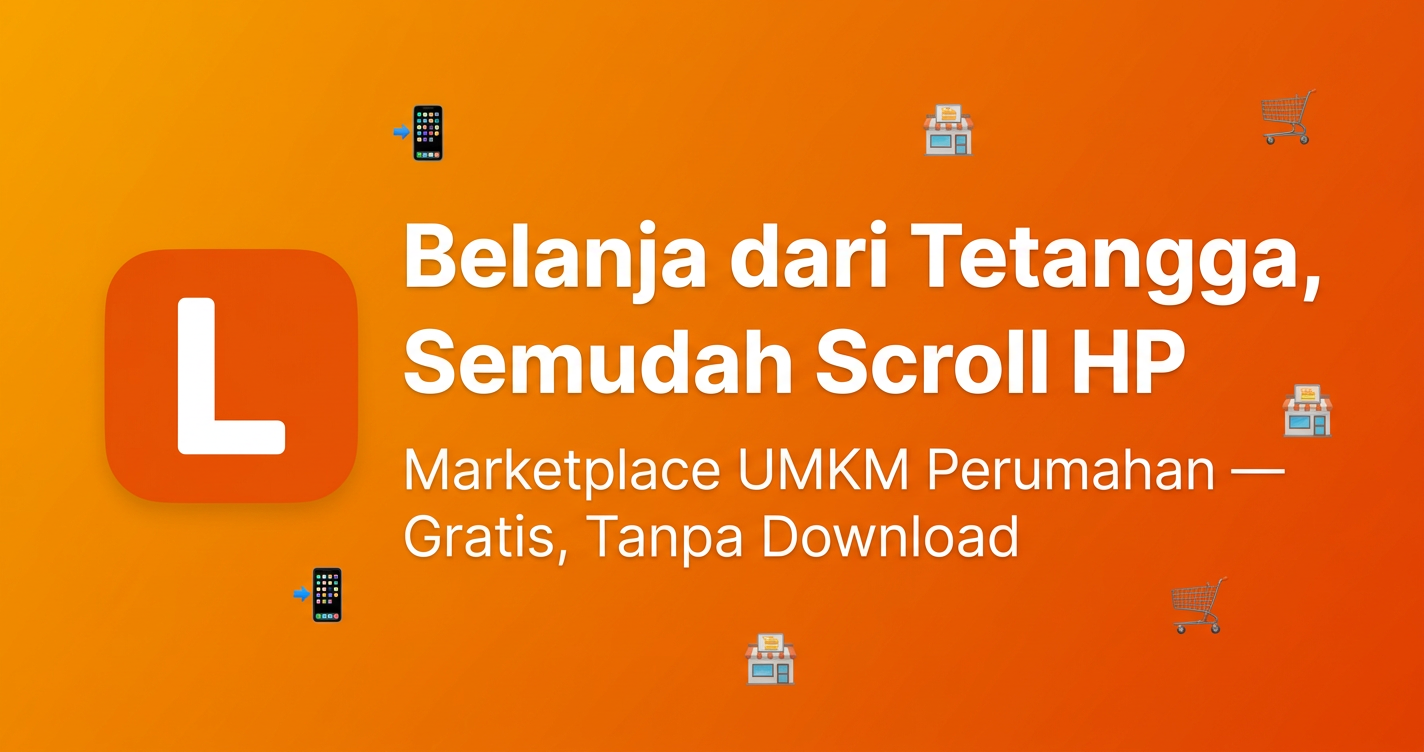
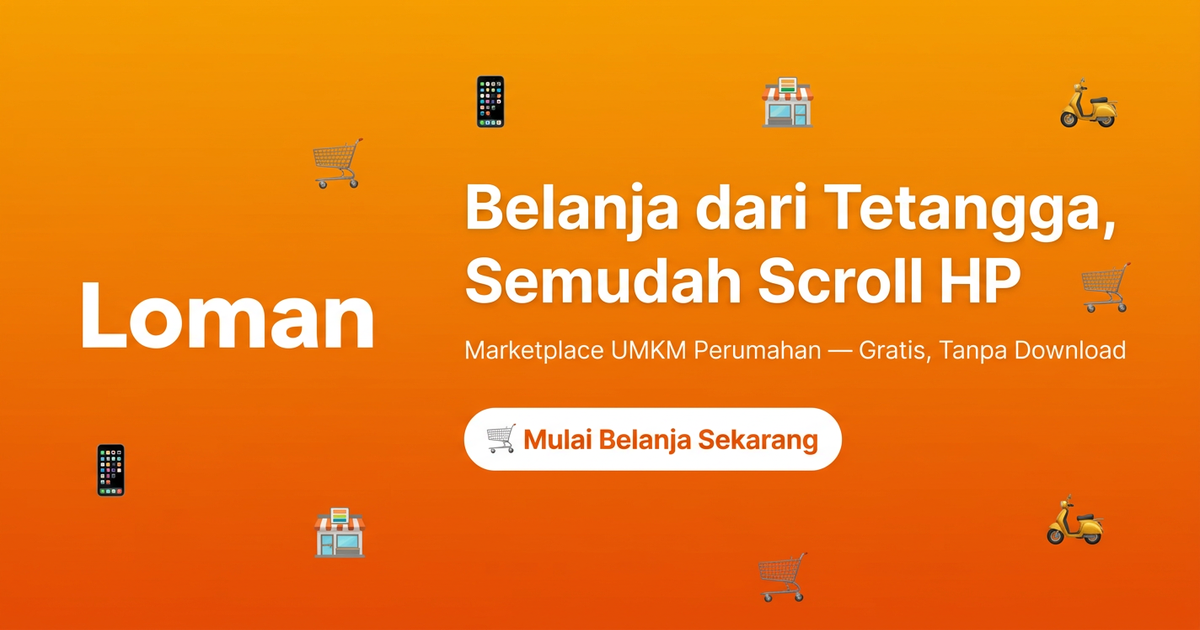
fix: SEO metadata + OG image 1200x630 + CTA

diff --git a/app/layout.js b/app/layout.js
@@ -9,11 +9,11 @@ const SITE_URL = "https://loman.store";
 export const metadata = {
   metadataBase: new URL(SITE_URL),
   title: {
-    default: "Loman — Belanja dari Tetangga, Semudah Scroll HP",
-    template: "%s | Loman",
+    default: "Loman — Belanja dari Tetangga, Semudah Scroll HP | Marketplace UMKM",
+    template: "%s | Loman Marketplace",
   },
   description:
-    "Marketplace UMKM perumahan. Pesan makanan, kue, laundry dari tetangga — antar langsung ke rumah. Gratis, tanpa download, langsung pakai!",
+    "Loman adalah marketplace UMKM perumahan. Pesan makanan, kue, laundry, dan kebutuhan harian dari tetangga Anda — antar langsung ke rumah, bayar COD. Gratis tanpa download!",
   keywords: [
     "marketplace perumahan",
     "belanja tetangga",
@@ -35,23 +35,23 @@ export const metadata = {
     locale: "id_ID",
     url: SITE_URL,
     siteName: "Loman",
-    title: "Loman — Belanja dari Tetangga, Semudah Scroll HP 📱",
+    title: "Loman — Belanja dari Tetangga, Semudah Scroll HP 📱 | Marketplace UMKM Perumahan",
     description:
-      "Marketplace UMKM perumahan. Pesan makanan, kue, laundry dari tetangga — antar langsung ke rumah. Gratis!",
+      "Temukan makanan, kue, laundry, dan kebutuhan harian dari tetangga Anda di Loman. Pesan mudah, antar ke rumah, bayar COD. Marketplace UMKM perumahan terpercaya!",
     images: [
       {
         url: "/og-image.png",
         width: 1200,
         height: 630,
-        alt: "Loman — Local Market Nusantara",
+        alt: "Loman — Marketplace UMKM Perumahan. Belanja dari Tetangga!",
       },
     ],
   },
   twitter: {
     card: "summary_large_image",
-    title: "Loman — Belanja dari Tetangga, Semudah Scroll HP",
+    title: "Loman — Belanja dari Tetangga, Semudah Scroll HP | Marketplace UMKM",
     description:
-      "Marketplace UMKM perumahan. Pesan makanan, kue, laundry dari tetangga — antar langsung ke rumah!",
+      "Loman marketplace UMKM perumahan. Pesan makanan, kue, laundry dari tetangga — antar langsung ke rumah, bayar COD. Gratis tanpa download!",
     images: ["/og-image.png"],
   },
   robots: {